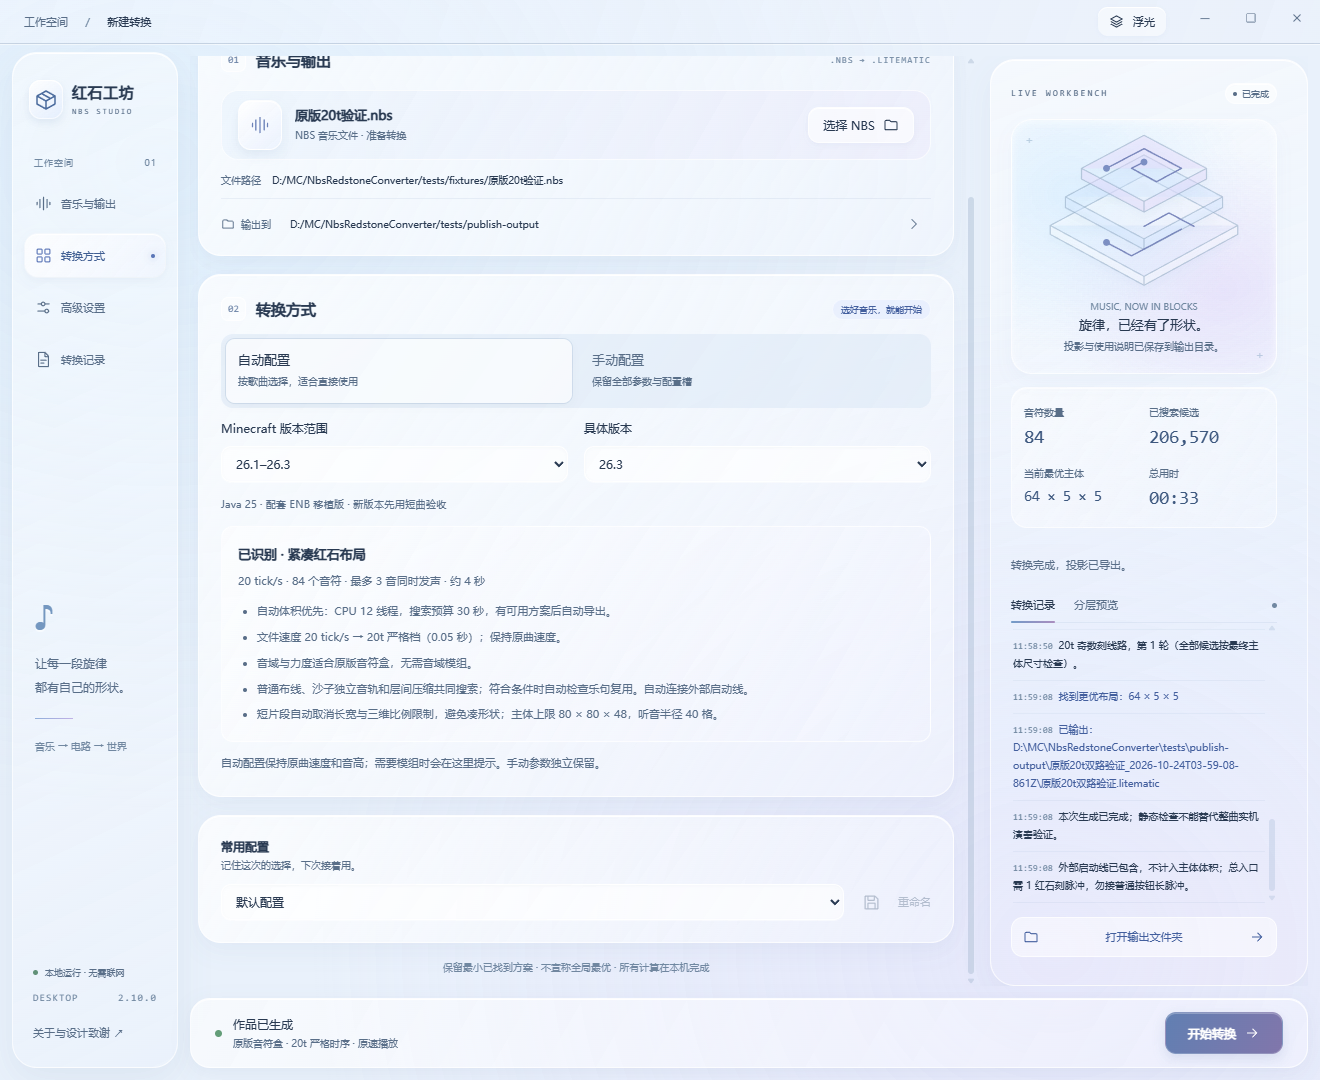
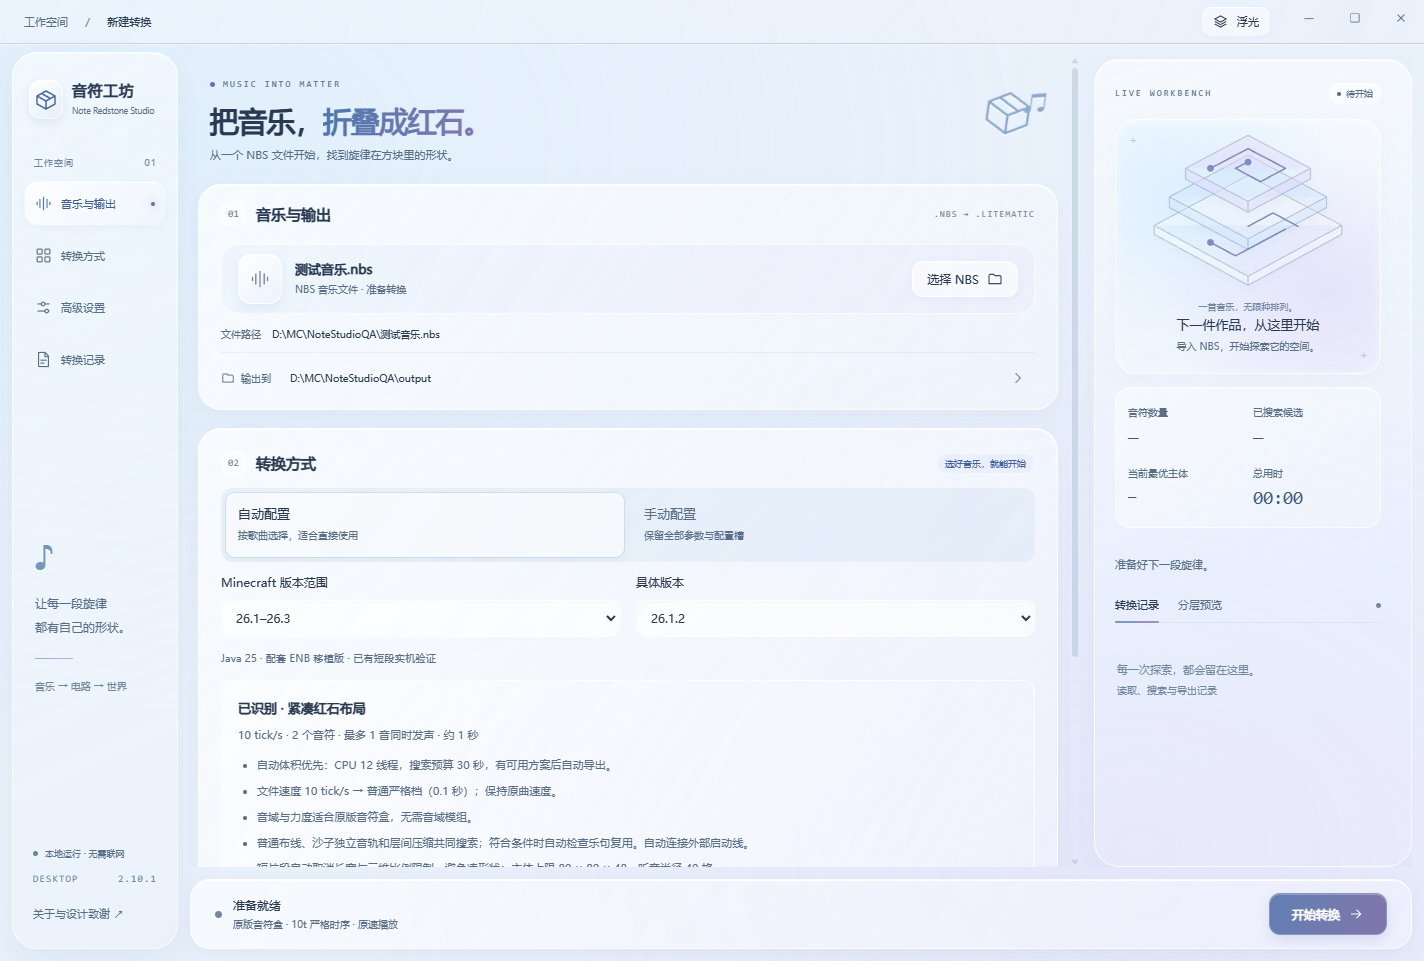
Release Note Redstone Studio 2.10.1

diff --git a/desktop/index.html b/desktop/index.html
@@ -3,7 +3,7 @@
 <head>
   <meta charset="UTF-8"><meta name="viewport" content="width=device-width,initial-scale=1">
   <meta http-equiv="Content-Security-Policy" content="default-src 'self' data:; script-src 'self' 'unsafe-inline' 'unsafe-eval'; style-src 'self' 'unsafe-inline'; img-src 'self' data:; connect-src 'self'; object-src 'none'">
-  <title>NBS · 红石工坊</title><link rel="stylesheet" href="studio.css">
+  <title>音符工坊 · Note Redstone Studio</title><link rel="stylesheet" href="studio.css">
 </head>
 <body>
 <svg class="icons" aria-hidden="true"><defs>
@@ -31,7 +31,7 @@
 <div class="window-controls"><button id="minimizeWindow" aria-label="最小化" title="最小化"><svg><use href="#i-minimize"/></svg></button><button id="maximizeWindow" aria-label="最大化" title="最大化"><svg><use href="#i-maximize"/></svg></button><button id="closeWindow" aria-label="关闭窗口" title="关闭窗口"><svg><use href="#i-close"/></svg></button></div>
 <div class="app-shell">
  <aside class="sidebar">
-  <a class="brand" href="#music" aria-label="红石工坊首页"><span class="brand-mark"><svg><use href="#i-cube"/></svg></span><span>红石工坊<small>NBS STUDIO</small></span></a>
+  <a class="brand" href="#music" aria-label="音符工坊首页"><span class="brand-mark"><svg><use href="#i-cube"/></svg></span><span>音符工坊<small>Note Redstone Studio</small></span></a>
   <div class="workspace-label">工作空间 <span>01</span></div>
   <nav aria-label="设置导航">
    <button class="nav-item active" data-scroll="music"><svg><use href="#i-wave"/></svg>音乐与输出<span>1</span></button>
@@ -40,7 +40,7 @@
    <button class="nav-item" id="showLog"><svg><use href="#i-file"/></svg>转换记录<span id="logCount">0</span></button>
   </nav>
   <div class="sidebar-note"><span class="tiny-symbol">♪</span><p>让每一段旋律<br>都有自己的形状。</p><div class="note-rule"></div><small>音乐 → 电路 → 世界</small></div>
-  <div class="sidebar-bottom"><div class="online"><span></span>本地运行 · 无需联网</div><div class="version">DESKTOP <b id="version">2.9.3</b></div><button id="aboutBtn" class="text-button">关于与设计致谢 ↗</button></div>
+  <div class="sidebar-bottom"><div class="online"><span></span>本地运行 · 无需联网</div><div class="version">DESKTOP <b id="version">2.10.1</b></div><button id="aboutBtn" class="text-button">关于与设计致谢 ↗</button></div>
  </aside>
  <header class="topbar" id="windowTitlebar" title="拖动窗口 · 双击最大化"><div class="title-drag" title="拖动窗口 · 双击最大化"><div class="breadcrumb">工作空间 <span>/</span> <strong>新建转换</strong></div></div><div class="top-actions"><button class="theme-toggle" id="themeBtn" aria-label="选择外观主题" aria-haspopup="menu" aria-expanded="false"><svg id="themeIcon"><use href="#i-glass"/></svg><span id="themeLabel">浮光</span></button></div></header>
  <main class="workspace">
@@ -97,7 +97,7 @@
 <div class="resize-handles" aria-hidden="true"><div data-edge="left"></div><div data-edge="right"></div><div data-edge="top"></div><div data-edge="bottom"></div><div data-edge="top-left"></div><div data-edge="top-right"></div><div data-edge="bottom-left"></div><div data-edge="bottom-right"></div></div>
 <div class="toast" id="toast" role="status" aria-live="polite"></div>
 <dialog id="renameDialog"><form method="dialog"><div class="dialog-head"><h2>给配置起个名字</h2><button class="icon-button" value="cancel" aria-label="关闭"><svg><use href="#i-close"/></svg></button></div><p>下次选择它，就能载入这一组设置。</p><label for="profileName">配置名称</label><input id="profileName" maxlength="24" required autocomplete="off"><div class="dialog-actions"><button class="button" value="cancel" formnovalidate>取消</button><button class="button primary" id="confirmRename" value="save">保存名称</button></div></form></dialog>
-<dialog id="aboutDialog"><div class="dialog-head"><h2>为旋律留一块空间。</h2><button class="icon-button" id="closeAbout" aria-label="关闭"><svg><use href="#i-close"/></svg></button></div><p>NBS 红石投影转换器 · 2.9.3</p><p>界面与动效参考 Emil Kowalski 的 Design Engineering。搜索动画基于 Paidax01 / Math Curve Loaders 的 Rose Four：r = a cos(4θ)。</p><p class="help">浅色「纸间」：中性灰白、压印与实体层叠。<br>深色「夜航」：黑灰面板、蓝色线条与仪表读数。<br>毛玻璃「浮光」：透光卡片、独立侧栏与悬浮操作条。<br>首次使用默认毛玻璃，之后记住上次主题。<br>在右上角可切换主题。动态效果跟随系统的减少动画偏好。</p><p class="help">原版音符盒不支持独立力度；ENB 模式会保存 NBS 音符力度 × 音轨音量，需要配套模组。输出目录内的说明包含各模式接线和使用要求。</p></dialog>
+<dialog id="aboutDialog"><div class="dialog-head"><h2>为旋律留一块空间。</h2><button class="icon-button" id="closeAbout" aria-label="关闭"><svg><use href="#i-close"/></svg></button></div><p id="aboutVersion">音符工坊 · Note Redstone Studio · 2.10.1</p><p>界面与动效参考 Emil Kowalski 的 Design Engineering。搜索动画基于 Paidax01 / Math Curve Loaders 的 Rose Four：r = a cos(4θ)。</p><p class="help">浅色「纸间」：中性灰白、压印与实体层叠。<br>深色「夜航」：黑灰面板、蓝色线条与仪表读数。<br>毛玻璃「浮光」：透光卡片、独立侧栏与悬浮操作条。<br>首次使用默认毛玻璃，之后记住上次主题。<br>在右上角可切换主题。动态效果跟随系统的减少动画偏好。</p><p class="help">原版音符盒不支持独立力度；ENB 模式会保存 NBS 音符力度 × 音轨音量，需要配套模组。输出目录内的说明包含各模式接线和使用要求。</p></dialog>
 <div id="boot" class="boot"><canvas id="bootRose" width="200" height="200"></canvas><strong>正在打开工作台</strong><small id="bootMessage">加载本地设置…</small></div>
 <script src="rose-four.js"></script><script src="studio.js"></script>
 </body></html>

diff --git a/desktop/studio.js b/desktop/studio.js
@@ -193,5 +193,5 @@ let layerTimer;$('#layer').addEventListener('input',e=>{clearTimeout(layerTimer)
 document.addEventListener('keydown',e=>{document.documentElement.dataset.keyboard='true';if((e.ctrlKey||e.metaKey)&&e.key==='Enter'&&!state.running){e.preventDefault();$('#startBtn').click();}});document.addEventListener('pointerdown',()=>document.documentElement.dataset.keyboard='false');
 document.addEventListener('visibilitychange',()=>{if(document.hidden&&unsaved)persist();});
 window.addEventListener('beforeunload',()=>{if(unsaved)persist();});
-async function init(){if(initialized)return;api=window.pywebview?.api;if(!api)return;try{const r=await api.bootstrap();values=r.values;paths=r.paths;choices=r.choices;versionCatalog=r.versions||[];profiles=r.profiles;selected=r.selected;appearance={theme:'glass',font_size:100,...r.appearance,motion:true};$('#version').textContent=r.version;buildFields();theme();fill();initialized=true;$('#boot').hidden=true;bootRose.stop();updateState(r.state);showTab(false);poll();}catch(e){$('#bootMessage').textContent='加载失败：'+(e.message||e);}}
+async function init(){if(initialized)return;api=window.pywebview?.api;if(!api)return;try{const r=await api.bootstrap();values=r.values;paths=r.paths;choices=r.choices;versionCatalog=r.versions||[];profiles=r.profiles;selected=r.selected;appearance={theme:'glass',font_size:100,...r.appearance,motion:true};$('#version').textContent=r.version;$('#aboutVersion').textContent='音符工坊 · Note Redstone Studio · '+r.version;buildFields();theme();fill();initialized=true;$('#boot').hidden=true;bootRose.stop();updateState(r.state);showTab(false);poll();}catch(e){$('#bootMessage').textContent='加载失败：'+(e.message||e);}}
 window.addEventListener('pywebviewready',init);init();setTimeout(()=>{if(!initialized)$('#bootMessage').textContent='等待本地桌面服务。如果长时间没有响应，请关闭窗口后重试。';},10000);

diff --git a/desktop/studio.css b/desktop/studio.css
@@ -127,3 +127,6 @@ html{font-size:13px}
 .quick-target label[for=quickRange]{grid-column:1;grid-row:1}.quick-target label[for=quickTarget]{grid-column:2;grid-row:1}
 #quickRange{grid-column:1;grid-row:2}#quickTarget{grid-column:2;grid-row:2}.quick-target select{width:100%}
 #versionHint{grid-column:1/-1;font-size:.8rem;line-height:1.7;color:var(--muted)}
+
+/* Keep the full English product name legible inside the compact sidebar. */
+.brand small,[data-theme=glass] .brand small{font-family:"Segoe UI",sans-serif;font-size:8.5px;letter-spacing:0;line-height:1.45;white-space:normal;max-width:112px}

diff --git a/desktop_app.py b/desktop_app.py
@@ -14,7 +14,7 @@ from profiles import settings_path, read_settings, write_settings
 from desktop_options import (BASE, SUPPORTS, BUDGETS, SOUND_ENGINES, SOUND_HINTS,
     HORIZONTAL_OPTIONS, SPACE_OPTIONS, RADIUS_OPTIONS, make_options, VERSIONS)
 
-VERSION = '2.10.0'
+VERSION = '2.10.1'
 DEFAULTS = dict(adaptive=True, objective='体积优先', target='26.1.2', budget='持续优化 · 手动导出',
     support='圆石', speed='1', pitch='严格保留', timing='严格保留', transpose='0',
     sound_engine='原版音符盒', threads=str(min(os.cpu_count() or 1, 32)),
@@ -368,7 +368,7 @@ def main():
     from desktop_window import app_identity,configure_shell
     app_identity()
     api=DesktopAPI()
-    window=webview.create_window(f'NBS 红石投影转换器 {VERSION}',str(BASE/'desktop/index.html'),js_api=api,
+    window=webview.create_window(f'音符工坊 · Note Redstone Studio {VERSION}',str(BASE/'desktop/index.html'),js_api=api,
         width=1320,height=920,min_size=(900,680),background_color='#e5edf6',text_select=True,
         frameless=True,easy_drag=False,transparent=True)
     api._window=window

diff --git a/README.md b/README.md
@@ -1,24 +1,24 @@
 <div align="center">
 
-<img src="docs/images/hero.svg" alt="红石工坊 — 把音乐，折叠成红石。" width="100%">
+<img src="docs/images/hero.svg" alt="音符工坊 — 把音乐，折叠成红石。" width="100%">
 
-**NBS 红石投影转换器 · Redstone Studio**
+**音符工坊 · Note Redstone Studio**
 
 从一份 NBS，到一台可以在 Minecraft 中搭建的红石音乐机。
 
-[![Release](https://img.shields.io/badge/release-v2.10.0-647db5?style=flat-square)](https://github.com/Endframe0/nbs-redstone-studio/releases/latest) ![Platform](https://img.shields.io/badge/Windows-10%20%2F%2011-687ca5?style=flat-square) ![Minecraft](https://img.shields.io/badge/Java-1.20%20%E2%80%94%2026.3-7c80ba?style=flat-square) [![License](https://img.shields.io/badge/License-AGPL--3.0--or--later-728695?style=flat-square)](LICENSE)
+[![Release](https://img.shields.io/badge/release-v2.10.1-647db5?style=flat-square)](https://github.com/Endframe0/note-redstone-studio/releases/latest) ![Platform](https://img.shields.io/badge/Windows-10%20%2F%2011-687ca5?style=flat-square) ![Minecraft](https://img.shields.io/badge/Java-1.20%20%E2%80%94%2026.3-7c80ba?style=flat-square) [![License](https://img.shields.io/badge/License-AGPL--3.0--or--later-728695?style=flat-square)](LICENSE)
 
-**[下载 Windows 便携版](https://github.com/Endframe0/nbs-redstone-studio/releases/latest)** · [开始使用](#开始使用) · [版本兼容](docs/compatibility.md) · [作者致谢](#作者致谢)
+**[下载 Windows 便携版](https://github.com/Endframe0/note-redstone-studio/releases/latest)** · [开始使用](#开始使用) · [版本兼容](docs/compatibility.md) · [作者致谢](#作者致谢)
 
 </div>
 
 ## 把音乐变成可以搭建的作品
 
-红石工坊读取 `.nbs` 音乐，分析音高、力度、速度和重复片段，寻找更合适的电路排布，导出 **Litematica 投影、材料清单和启动说明**。在游戏里，真正发声的是红石驱动的音符盒。
+音符工坊读取 `.nbs` 音乐，分析音高、力度、速度和重复片段，寻找更合适的电路排布，导出 **Litematica 投影、材料清单和启动说明**。在游戏里，真正发声的是红石驱动的音符盒。
 
 初次使用可以交给自动配置：选歌、选游戏版本、开始转换。熟悉之后，再打开手动配置调整尺寸、材料、音域和搜索方式。
 
-![毛玻璃「浮光」工作台，2.10.0 实际界面](docs/images/workbench.png)
+![毛玻璃「浮光」工作台，2.10.1 实际界面](docs/images/workbench.png)
 
 <sub>截图使用本地测试文件演示操作；发布包不附带这些 NBS。</sub>
 
@@ -33,7 +33,7 @@
 
 ### 01 · 下载并打开
 
-在 [Releases](https://github.com/Endframe0/nbs-redstone-studio/releases/latest) 下载 `NBS-Redstone-Studio-2.10.0-Windows-x64.zip`，**完整解压**后运行 `NBS红石投影转换器2.10.0.exe`。不要只取出 EXE。
+在 [Releases](https://github.com/Endframe0/note-redstone-studio/releases/latest) 下载 `Note-Redstone-Studio-2.10.1-Windows-x64.zip`，**完整解压**后运行 `音符工坊2.10.1.exe`。不要只取出 EXE。
 
 - Windows 10 / 11，64 位；便携版无需另外安装 Python 或 Node.js。
 - 需要 [Microsoft Edge WebView2 Runtime](https://developer.microsoft.com/microsoft-edge/webview2/)。多数 Windows 电脑已有；缺少时安装 Evergreen Runtime。

diff --git a/README-2.9.md b/README-2.9.md
@@ -1,6 +1,6 @@
-# NBS 红石投影转换器 2.10.0
+# 音符工坊 2.10.1
 
-新版桌面工作台。解压整个文件夹，再打开「NBS红石投影转换器2.10.0.exe」。不要只复制 exe。
+新版桌面工作台。解压整个文件夹，再打开「音符工坊2.10.1.exe」。不要只复制 exe。
 
 ## 主题与动态效果
 
@@ -12,7 +12,7 @@
 - 读取与搜索使用 Rose Four 曲线动画。动画表示仍在工作，不代表完成百分比。
 - 设置和主题自动保存。原来的默认配置、五个可命名配置槽及上次设置继续使用。
 - 窗口按钮紧贴顶部和右边缘，任务栏图标支持最小化与恢复。原生标题栏改为自绘窗口栏；拖动顶部整条区域（按钮除外）移动窗口，双击最大化/还原。右上角可最小化、最大化和关闭，窗口边缘可拖动调整尺寸。
-- 程序、窗口与任务栏统一使用新的红石工坊图标。
+- 程序、窗口与任务栏统一使用新的音符工坊图标。
 
 主题菜单 →「界面字号」可选择 90%、100%、110%、120%、130%，立即生效并在重启后恢复。
 

diff --git a/README-2.10.md b/README-2.10.md
@@ -1,4 +1,4 @@
-# NBS 红石投影转换器 2.10.0 · 版本兼容说明
+# 音符工坊 2.10.1 · 版本兼容说明
 
 在“转换方式”中先选择版本范围，再选择实际游戏版本。手动配置中的 Java 版本也按范围分组。范围是筛选条件，导出仍针对具体版本，不代表一份投影可以随意降级使用。版本会随上次设置和五个配置槽保存。
 

diff --git a/docs/compatibility.md b/docs/compatibility.md
@@ -1,4 +1,4 @@
-# NBS 红石投影转换器 2.10.0 · 版本兼容说明
+# 音符工坊 2.10.1 · 版本兼容说明
 
 在“转换方式”中先选择版本范围，再选择实际游戏版本。手动配置中的 Java 版本也按范围分组。范围是筛选条件，导出仍针对具体版本，不代表一份投影可以随意降级使用。版本会随上次设置和五个配置槽保存。
 
